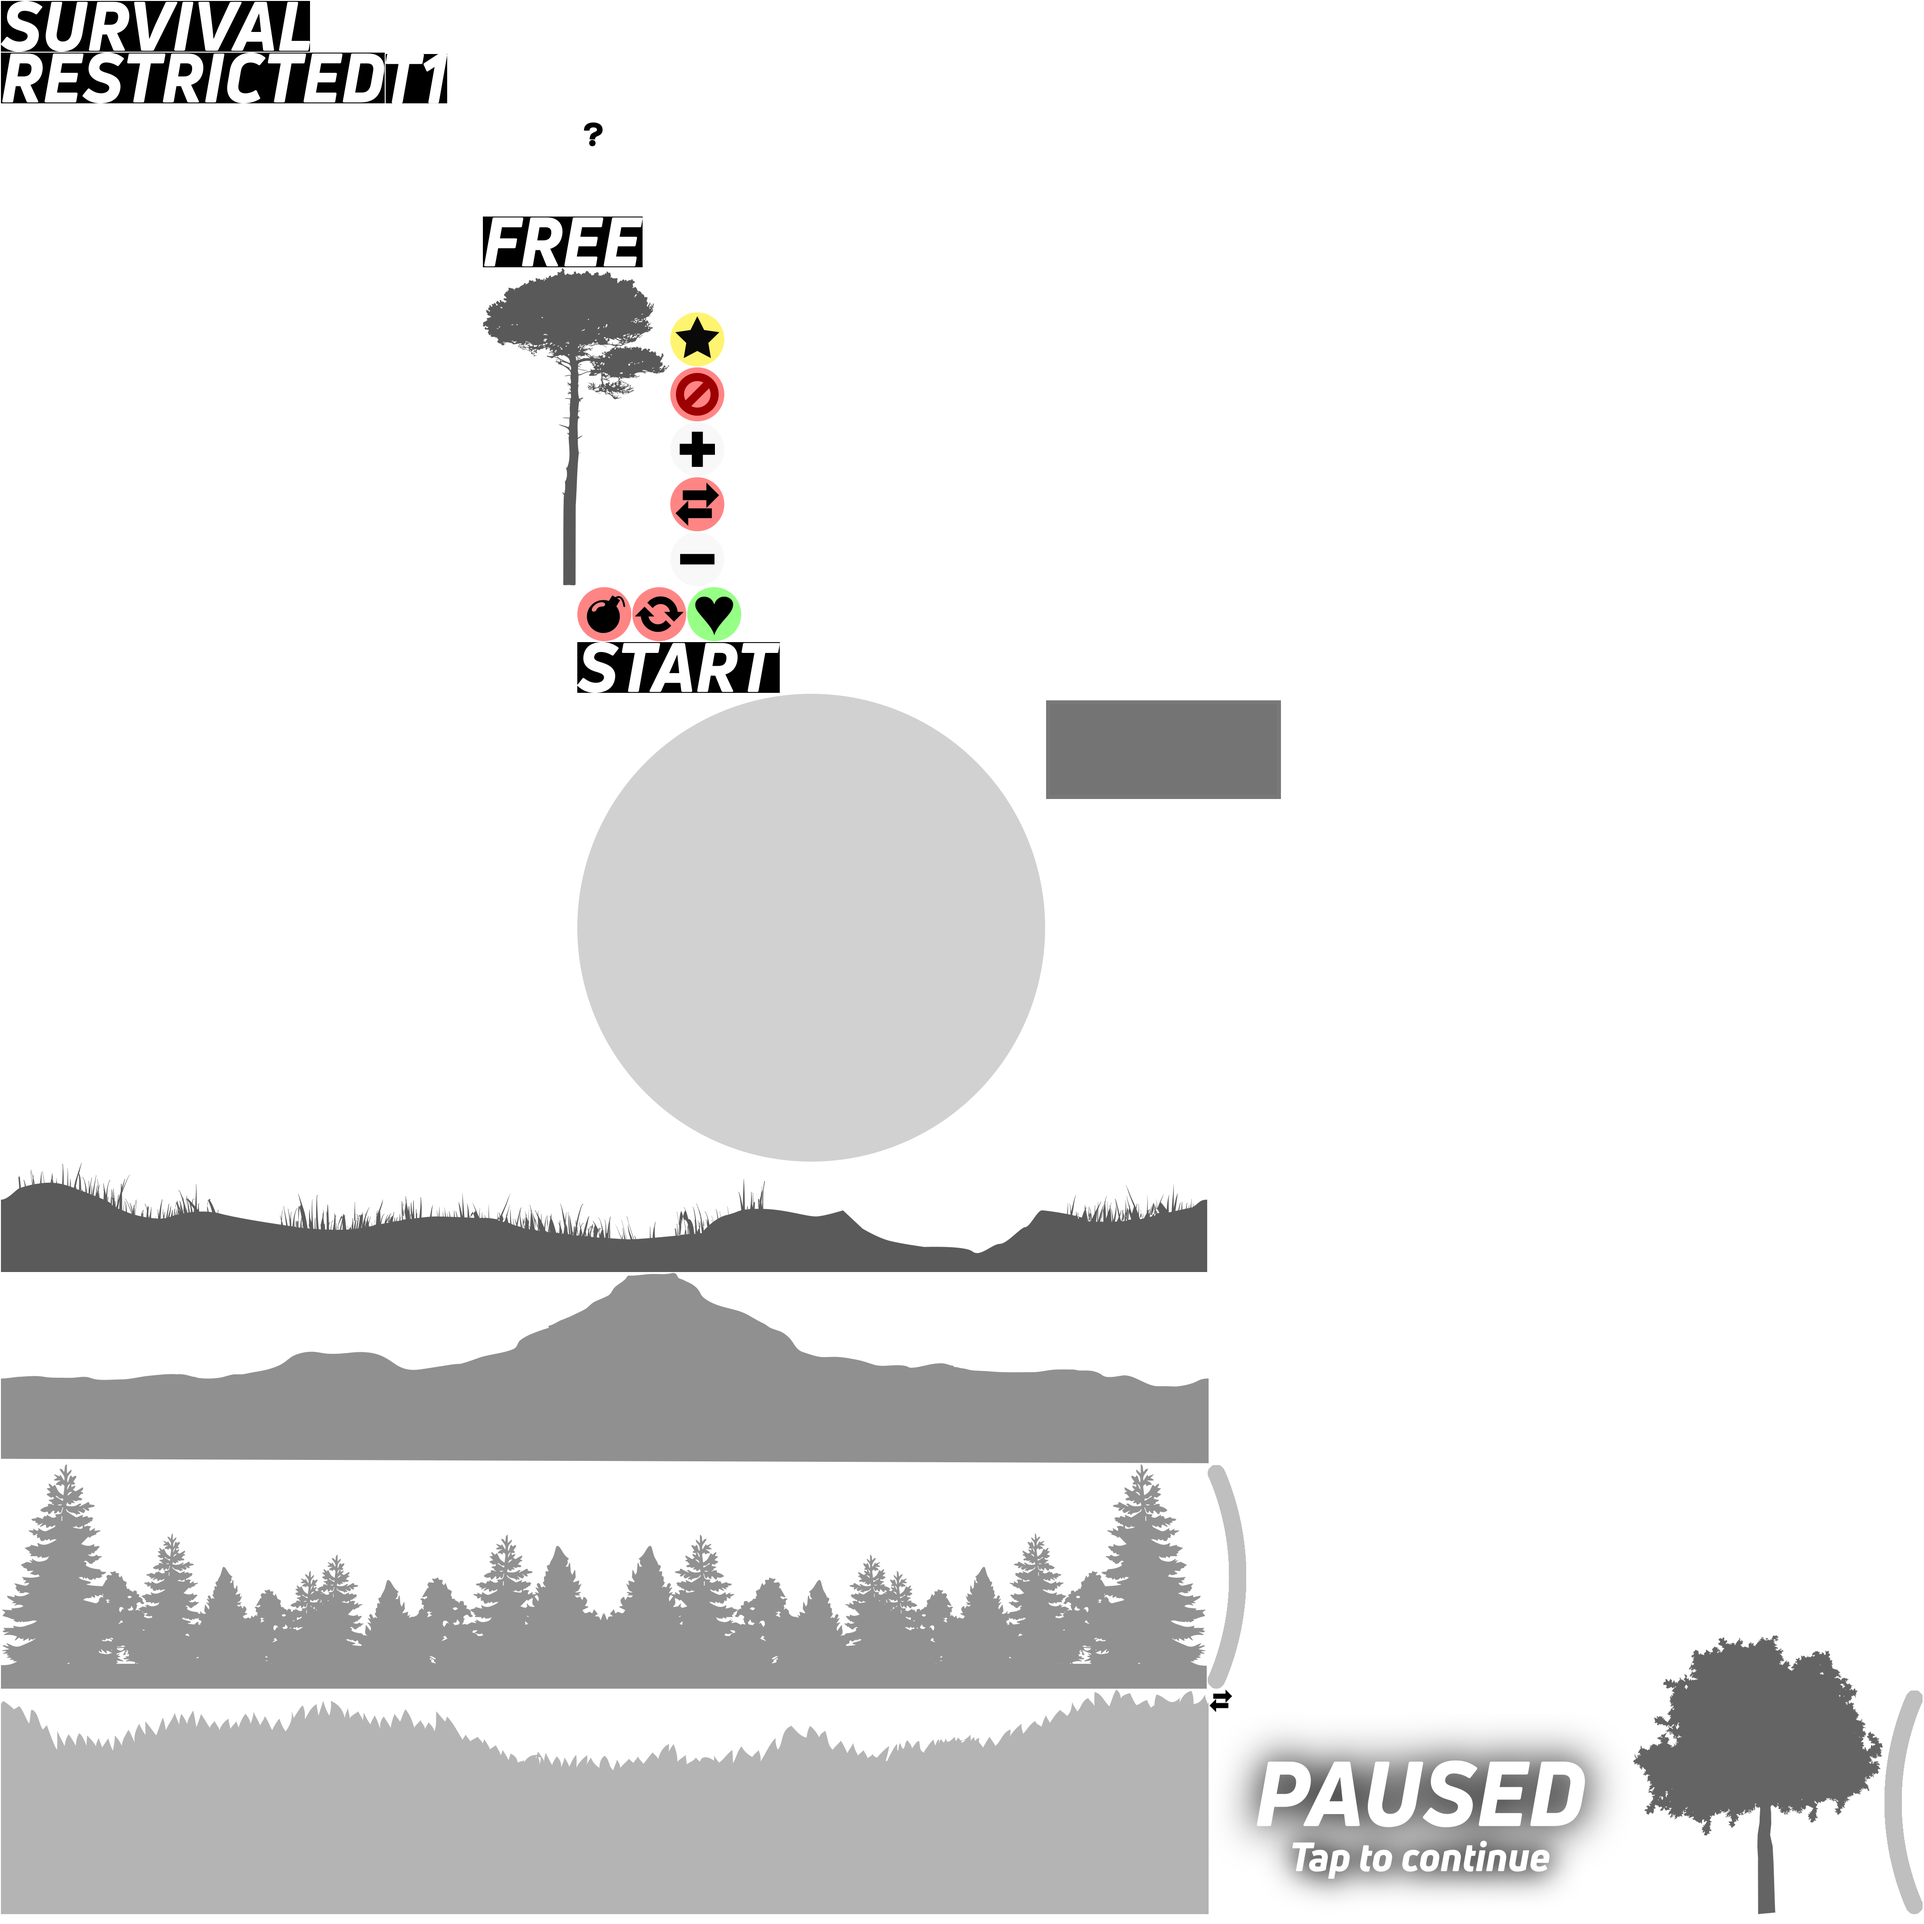
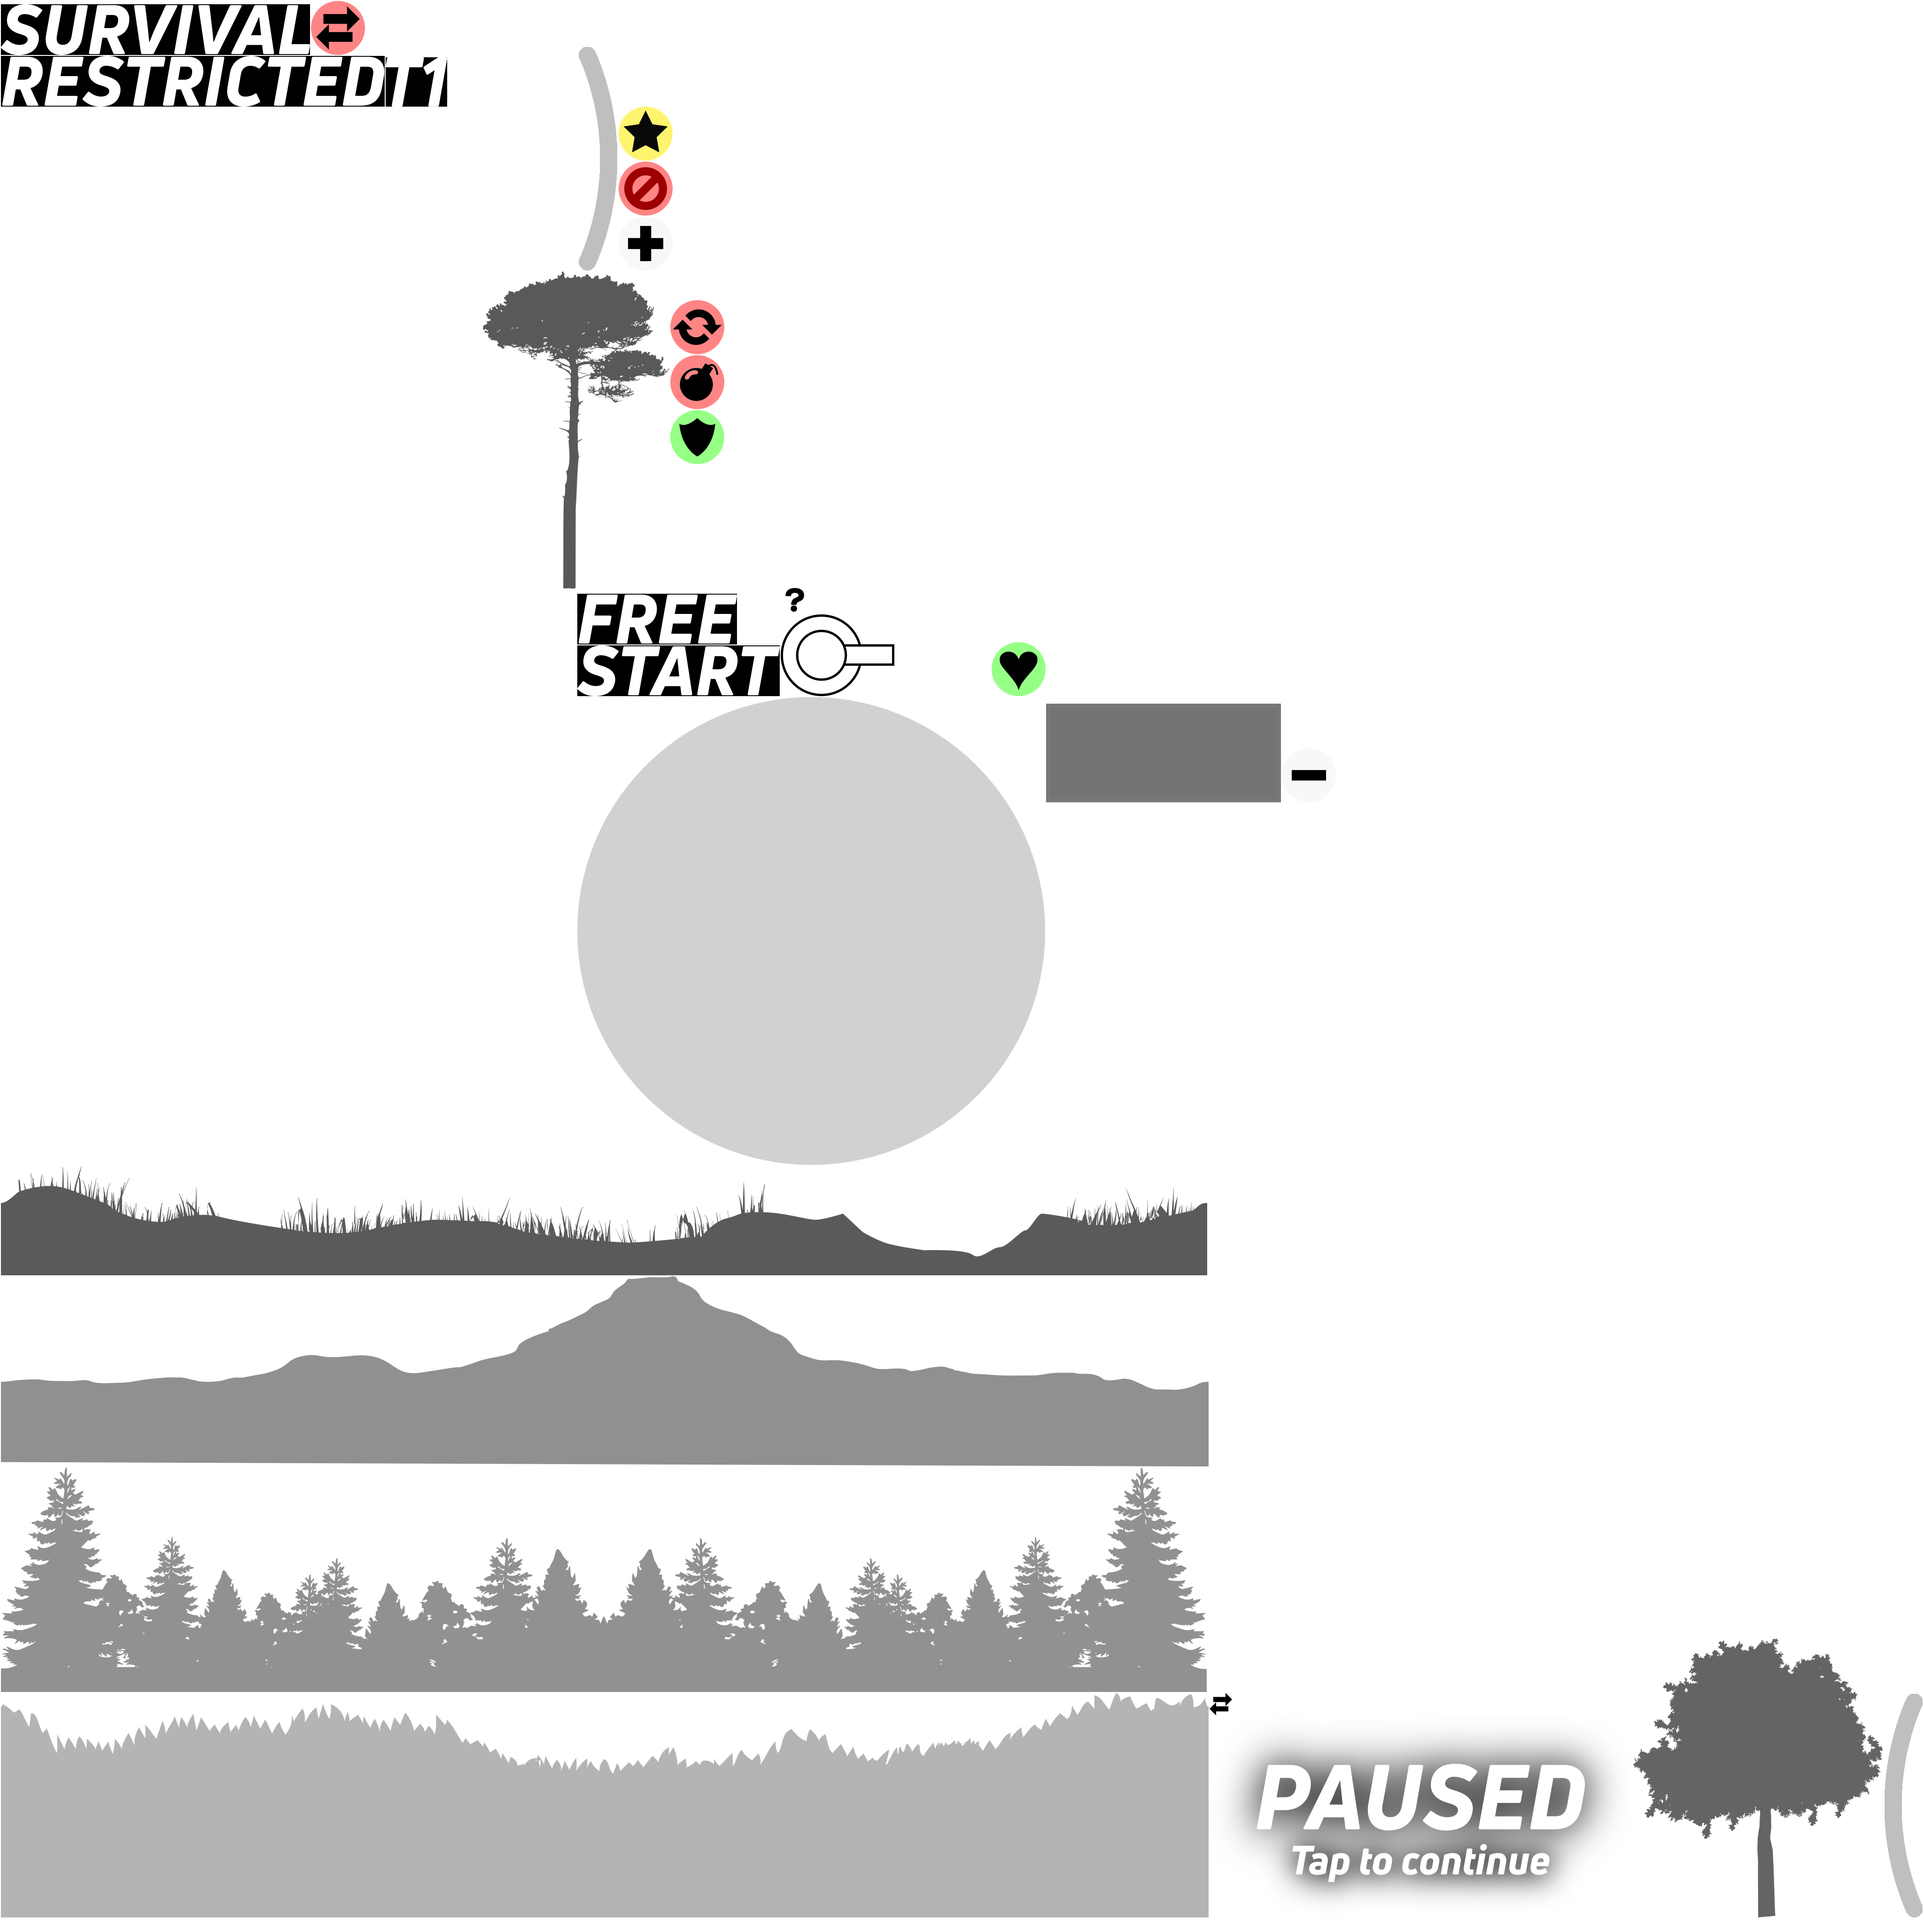
-> Lazer planet assets. -> All waves were double due to previous planet testing. Now back to normal.

diff --git a/core/src/com/yaamani/battleshield/alpha/Game/Screens/Gameplay/BulletsHandler.java b/core/src/com/yaamani/battleshield/alpha/Game/Screens/Gameplay/BulletsHandler.java
@@ -710,8 +710,8 @@ public class BulletsHandler implements Updatable {
 
         switch (waveAttackType) {
             case SINGLE:
-                //newSingleWave();
-                newDoubleWave();
+                newSingleWave();
+                //newDoubleWave();
                 break;
             case DOUBLE:
                 //newSingleWave();
@@ -719,16 +719,16 @@ public class BulletsHandler implements Updatable {
 
                 if (gameplayScreen.getGameplayControllerType() == GameplayControllerType.RESTRICTED & Bullet.isPlusOrMinusExists() & plusMinusBulletsTimer.isFinished()) {
                     if (MathUtils.random(1) == 0)
-                        //newRoundWave();
-                        newSingleWave();
+                        newRoundWave();
+                        //newSingleWave();
                     else newSingleWave();
                 } else newDoubleWave();
 
                 break;
             case ROUND:
                 //newSingleWave();
-                newDoubleWave();
-                //newRoundWave();
+                //newDoubleWave();
+                newRoundWave();
                 break;
         }
         //resetWaveTimer();

diff --git a/core/src/com/yaamani/battleshield/alpha/Game/Utilities/Assets.java b/core/src/com/yaamani/battleshield/alpha/Game/Utilities/Assets.java
@@ -151,6 +151,10 @@ public final class Assets implements Disposable, AssetErrorListener, Updatable {
         public final TextureRegion shieldDisablingBullet;
         public final TextureRegion mirrorBullet;
         public final TextureRegion fasterDizzinessRotationBullet;
+        public final TextureRegion armorBullet;
+
+        public final TextureRegion armorHalo;
+        public final TextureRegion lazerGun;
 
         public final TextureRegion pauseText;
         public final TextureRegion pauseSymbol;
@@ -184,6 +188,10 @@ public final class Assets implements Disposable, AssetErrorListener, Updatable {
             shieldDisablingBullet = atlas.findRegion(ASSETS_SHIELD_DISABLING_BULLET);
             mirrorBullet = atlas.findRegion(ASSETS_MIRROR_BULLET);
             fasterDizzinessRotationBullet = atlas.findRegion(ASSETS_FASTER_DIZZINESS_ROTATION);
+            armorBullet = atlas.findRegion(ASSETS_ARMOR_BULLET);
+
+            armorHalo = atlas.findRegion(ASSETS_ARMOR_HALO);
+            lazerGun = atlas.findRegion(ASSETS_LAZER_GUN);
 
             pauseText = atlas.findRegion(ASSETS_PAUSE_TEXT);
             pauseSymbol = atlas.findRegion(ASSETS_PAUSE_SYMBOL);

diff --git a/core/src/com/yaamani/battleshield/alpha/Game/Utilities/Constants.java b/core/src/com/yaamani/battleshield/alpha/Game/Utilities/Constants.java
@@ -851,6 +851,11 @@ public final class Constants {
     public static final MyInterpolation D_LAZER_DIFFICULTY_OUTPUT_SCALE = MyInterpolation.myLinear;
 
 
+    public static final int LAZER_NECESSARY_NUMBER_OF_ARMOR_BULLETS_TO_ACTIVATE_THE_LAZER_ARMOR = 5;
+
+    //public static final ;
+
+
     public static final int D_LAZER_BULLETS_MIN_NUMBER_PER_ATTACK = 1;
 
     public static final int D_LAZER_BULLETS_NUMBER_PER_ATTACK_DECREMENT = 1;
@@ -1014,5 +1019,11 @@ public final class Constants {
     public static final String ASSETS_FREE = "FREE";
 
     public static final String ASSETS_T1 = "T1";
+
+    public static final String ASSETS_ARMOR_BULLET = "Armor";
+
+    public static final String ASSETS_ARMOR_HALO = "Armor Halo";
+
+    public static final String ASSETS_LAZER_GUN = "Lazer Gun";
 
 }

diff --git a/core/src/com/yaamani/battleshield/alpha/Game/Starfield/StarsContainer.java b/core/src/com/yaamani/battleshield/alpha/Game/Starfield/StarsContainer.java
@@ -105,8 +105,8 @@ public class StarsContainer extends Group implements Disposable{
 
         badlogic = new Texture(Gdx.files.internal("badlogic.jpg"));
         badlogic.setFilter(Texture.TextureFilter.Linear, Texture.TextureFilter.Linear);
-        test = new Texture(Gdx.files.internal("test.jpg"));
-        test.setFilter(Texture.TextureFilter.Linear, Texture.TextureFilter.Linear);
+        //test = new Texture(Gdx.files.internal("test.jpg"));
+        //test.setFilter(Texture.TextureFilter.Linear, Texture.TextureFilter.Linear);
         fpss = new Array<>(Float.class);
     }
 
